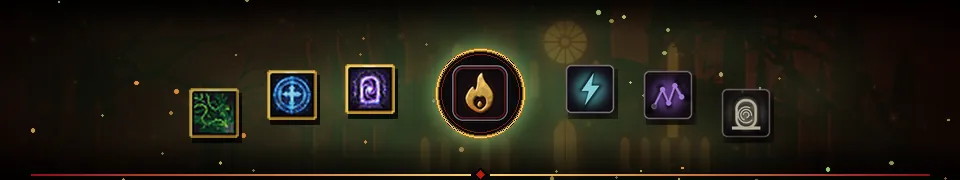
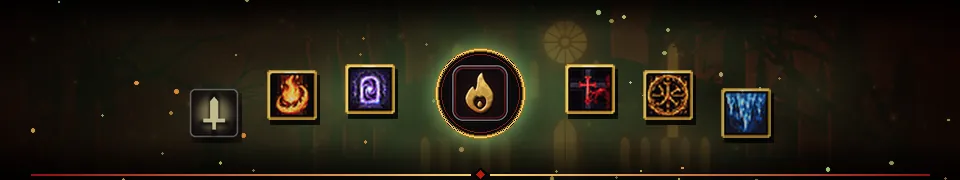
Wiki art for the level 500 spells; weapon_sim_test allows a small melee lift
The seven quest spells added wiki icons and changed the spells hero.
The quest spells lift melee power to 1.02 from level 500, so the test
now allows at most a 3% melee lift instead of none.

Claude-Session: https://claude.ai/code/session_01WHWmB5BBQcgggKkXbJNDqe

diff --git a/server/tools/weapon_sim_test.py b/server/tools/weapon_sim_test.py
@@ -90,7 +90,7 @@ for kind, row in power.items():
 check(W.interp(W.POWER_LEVELS, power['distance'], 2000) > W.interp(W.POWER_LEVELS, power['distance'], 1000) > 1.15,
       'the launcher is lifted more and more with the level')
 check(W.interp(W.POWER_LEVELS, power['wand'], 300) > 1.5, 'the wand is lifted')
-check(all(v == 1.0 for v in power['melee']), 'melee is above its share at every level: left alone')
+check(all(v <= 1.03 for v in power['melee']), 'melee is at or near its share at every level: at most a 3%% lift: %s' % power['melee'])
 check(W.own_dps('distance', 2000) / W.reference_dps('Ranger', 2000) < 0.25,
       'the problem: a launcher is under 25% of a Ranger\'s rotation at level 2000 without the factor')
 
